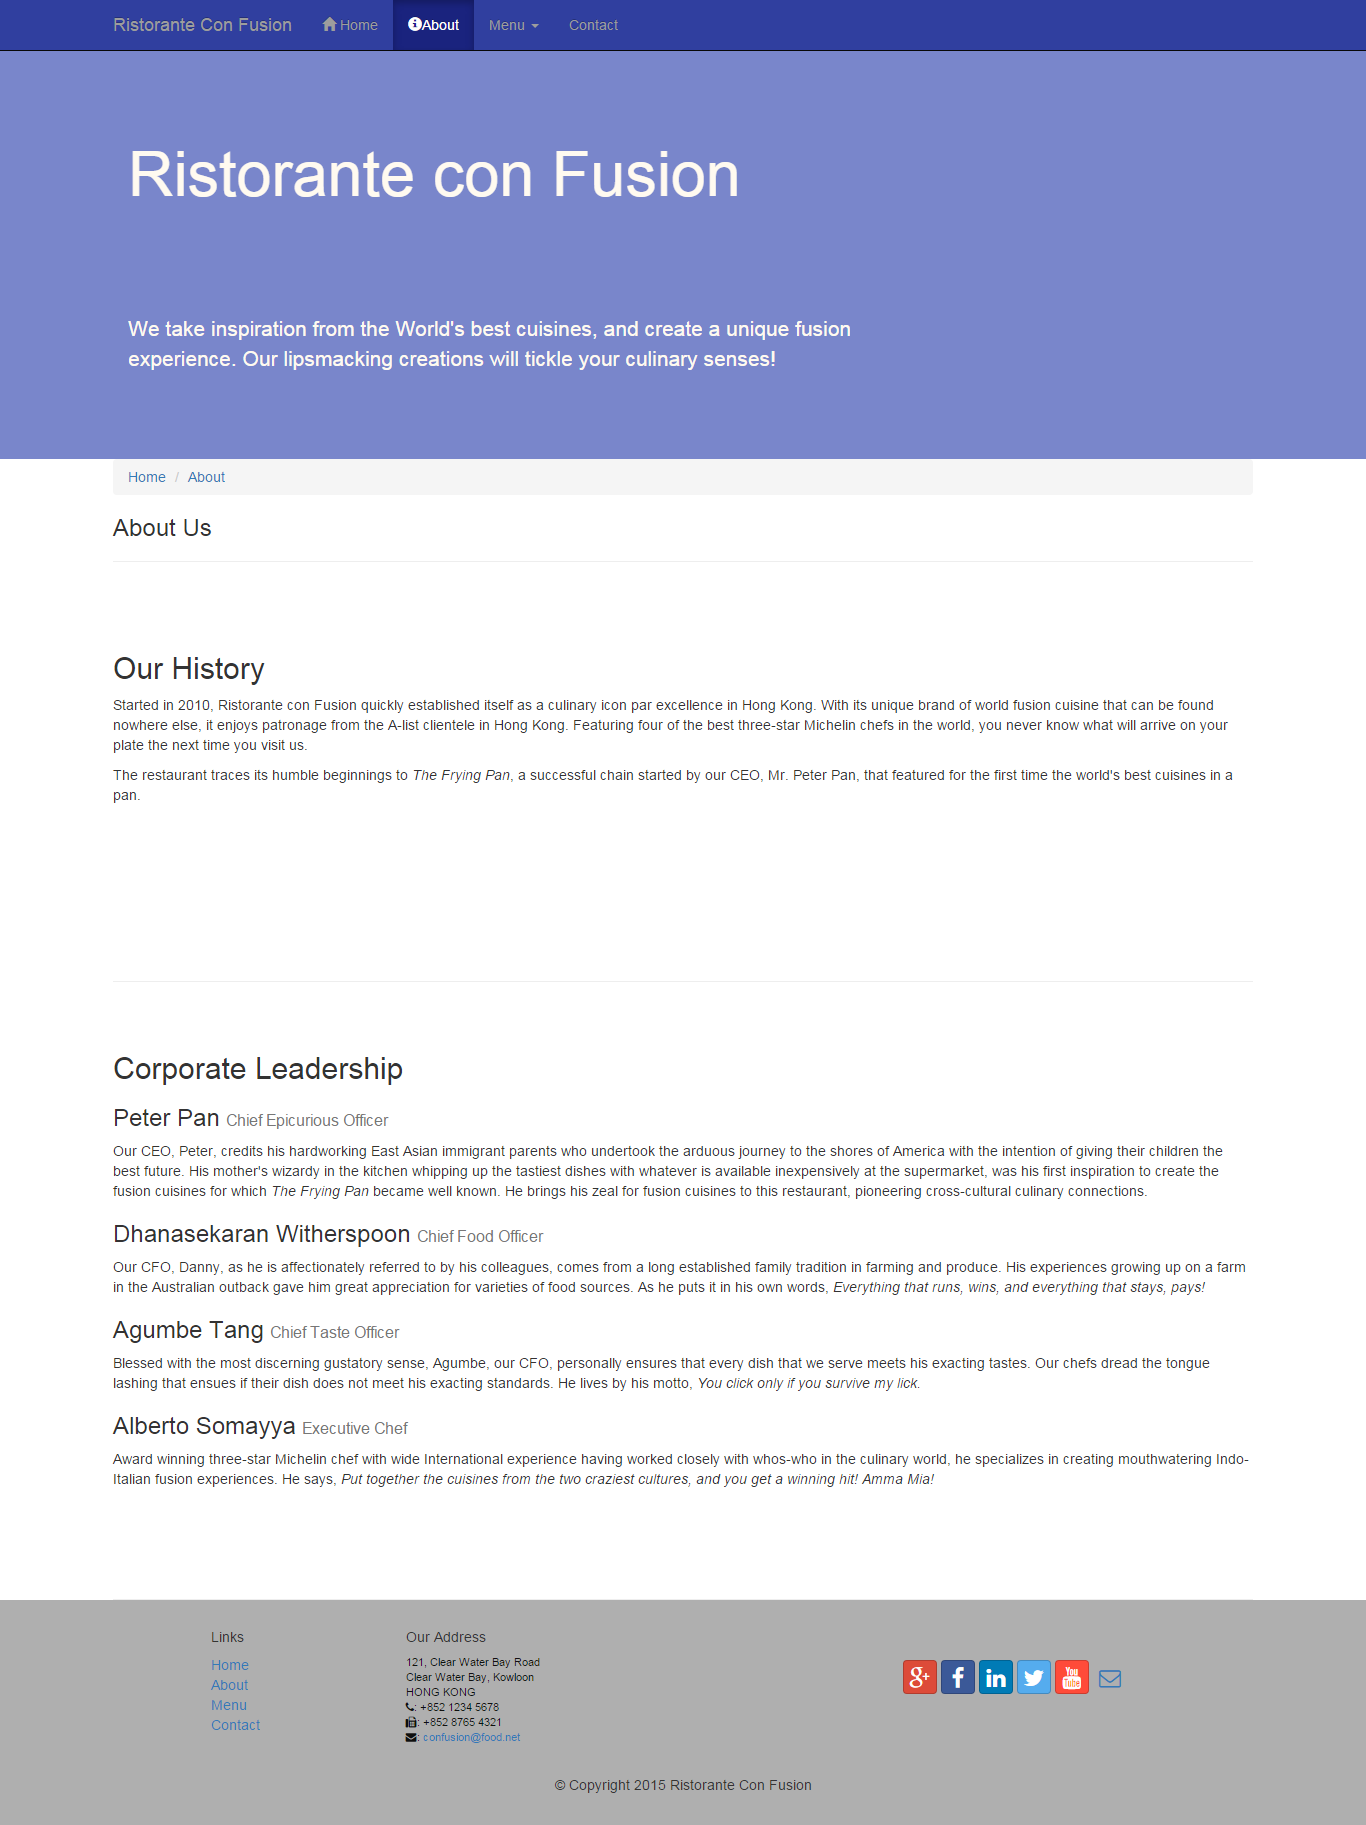
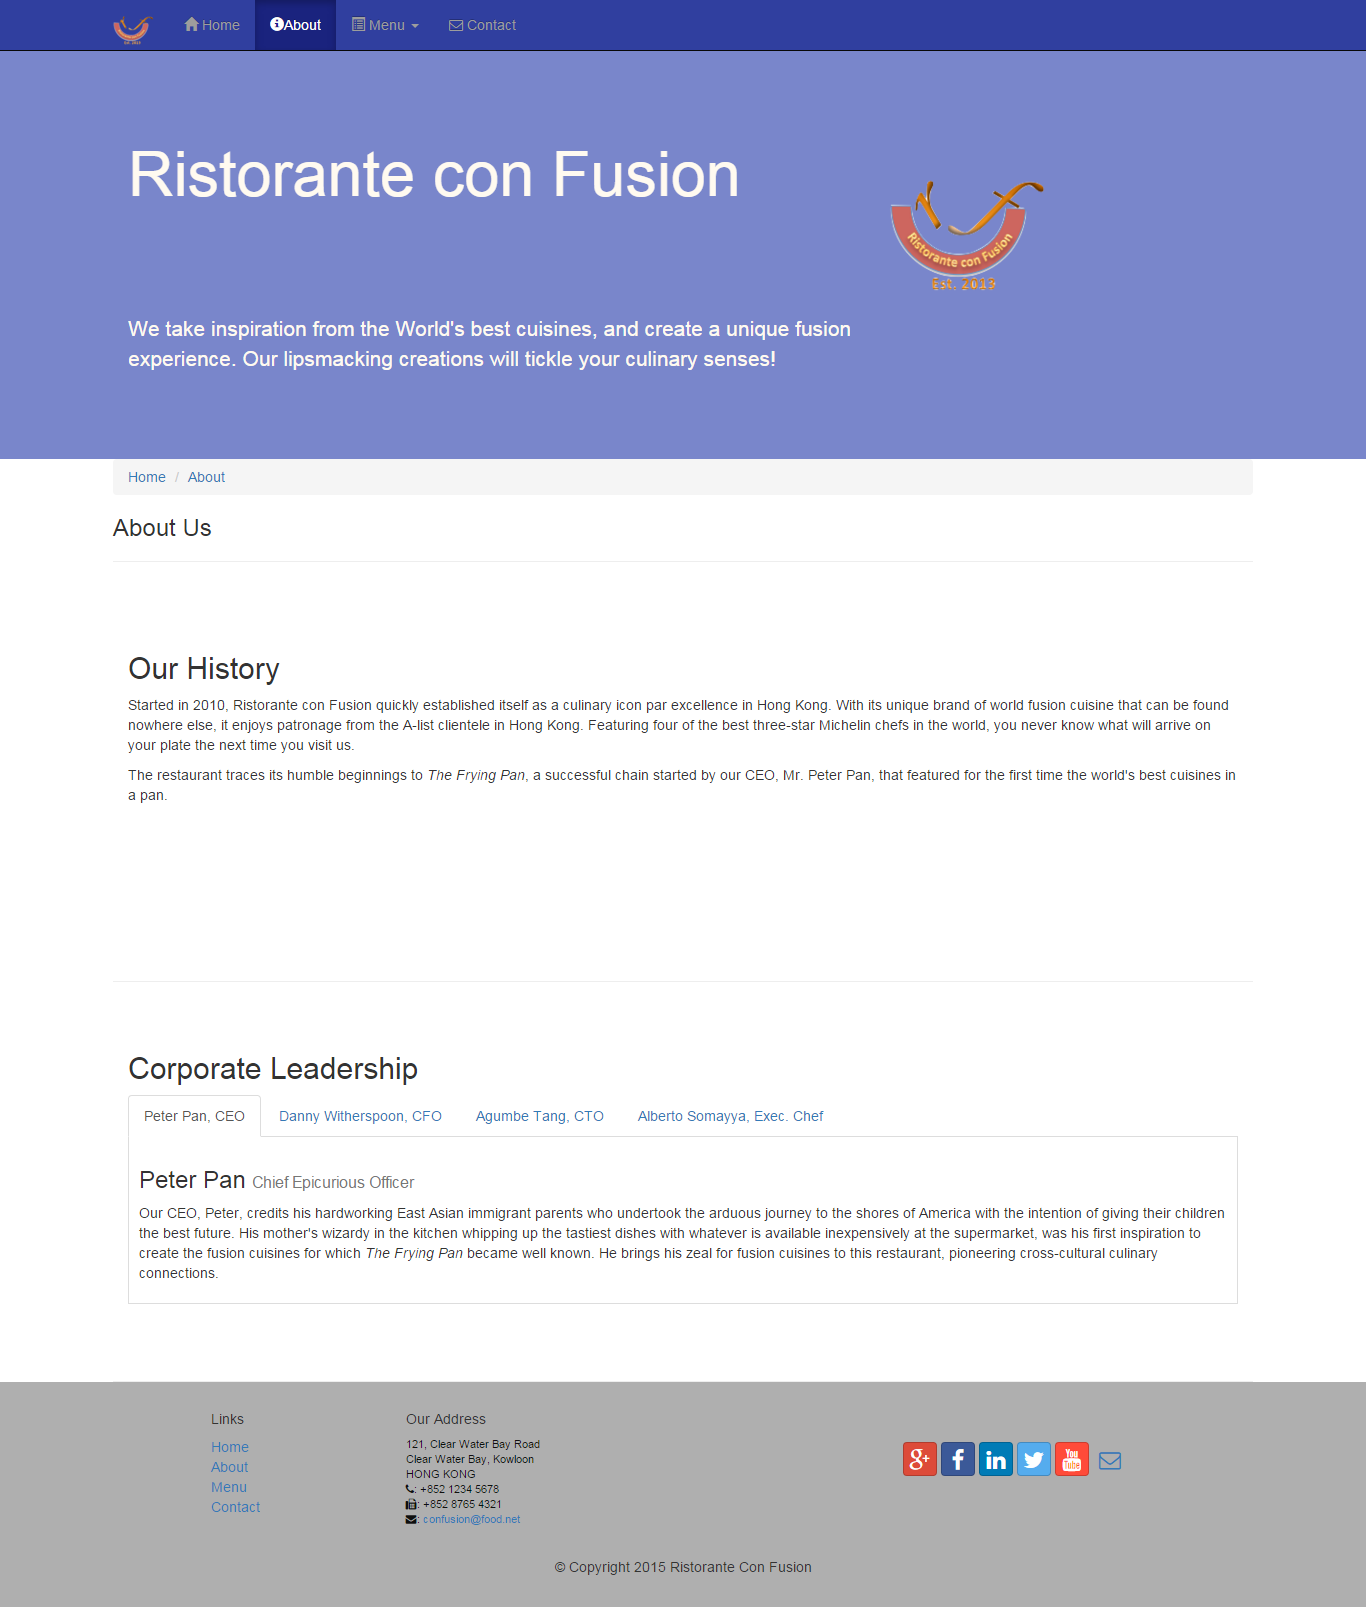
Tabs, Pills and Tabbed Navigation

diff --git a/aboutus.html b/aboutus.html
@@ -113,15 +113,49 @@
         <div class="row row-content">
             <div class="col-xs-12">
                 <h2>Corporate Leadership</h2>
-                <h3>Peter Pan <small>Chief Epicurious Officer</small></h3>
-                <p>Our CEO, Peter, credits his hardworking East Asian immigrant parents who undertook the arduous journey to the shores of America with the intention of giving their children the best future. His mother's wizardy in the kitchen whipping up the tastiest dishes with whatever is available inexpensively at the supermarket, was his first inspiration to create the fusion cuisines for which <em>The Frying Pan</em> became well known. He brings his zeal for fusion cuisines to this restaurant, pioneering cross-cultural culinary connections.</p>
-                <h3>Dhanasekaran Witherspoon <small>Chief Food Officer</small></h3>
-                <p>Our CFO, Danny, as he is affectionately referred to by his colleagues, comes from a long established family tradition in farming and produce. His experiences growing up on a farm in the Australian outback gave him great appreciation for varieties of food sources. As he puts it in his own words, <em>Everything that runs, wins, and everything that stays, pays!</em></p>
-                <h3>Agumbe Tang <small>Chief Taste Officer</small></h3>
-                <p>Blessed with the most discerning gustatory sense, Agumbe, our CFO, personally ensures that every dish that we serve meets his exacting tastes. Our chefs dread the tongue lashing that ensues if their dish does not meet his exacting standards. He lives by his motto, <em>You click only if you survive my lick.</em></p>
-                <h3>Alberto Somayya <small>Executive Chef</small></h3>
-                <p>Award winning three-star Michelin chef with wide International experience having worked closely with whos-who in the culinary world, he specializes in creating mouthwatering Indo-Italian fusion experiences. He says, <em>Put together the cuisines from the two craziest cultures, and you get a winning hit! Amma Mia!</em></p>
+                
+                
+                
+                <ul class="nav nav-tabs" role="tablist">
+                    <li role="presentation" class="active">
+                    <a href="#peter" aria-controls="peter"
+                     role="tab" data-toggle="tab">Peter Pan, CEO</a></li>
+                    <li role="presentation"><a href="#danny"
+                     aria-controls="danny" role="tab"
+                     data-toggle="tab">Danny Witherspoon, CFO</a></li>
+                    <li role="presentation"><a href="#agumbe"
+                     aria-controls="agumbe" role="tab"
+                     data-toggle="tab">Agumbe Tang, CTO</a></li>
+                    <li role="presentation"><a href="#alberto"
+                     aria-controls="alberto" role="tab"
+                     data-toggle="tab">Alberto Somayya, Exec. Chef</a></li>
+                </ul>                
+                
+                <div class="tab-content">
+                    <div role="tabpanel" class="tab-pane fade in active" id="peter">   
+                        <h3>Peter Pan <small>Chief Epicurious Officer</small></h3>
+                        <p>Our CEO, Peter, credits his hardworking East Asian immigrant parents who undertook the arduous journey to the shores of America with the intention of giving their children the best future. His mother's wizardy in the kitchen whipping up the tastiest dishes with whatever is available inexpensively at the supermarket, was his first inspiration to create the fusion cuisines for which <em>The Frying Pan</em> became well known. He brings his zeal for fusion cuisines to this restaurant, pioneering cross-cultural culinary connections.</p>
+                     </div>
+
+                    <div role="tabpanel" class="tab-pane fade" id="danny">    
+                        <h3>Dhanasekaran Witherspoon <small>Chief Food Officer</small></h3>
+                        <p>Our CFO, Danny, as he is affectionately referred to by his colleagues, comes from a long established family tradition in farming and produce. His experiences growing up on a farm in the Australian outback gave him great appreciation for varieties of food sources. As he puts it in his own words, <em>Everything that runs, wins, and everything that stays, pays!</em></p>
+                     </div>
+
+                    <div role="tabpanel" class="tab-pane fade" id="agumbe">    
+                        <h3>Agumbe Tang <small>Chief Taste Officer</small></h3>
+                        <p>Blessed with the most discerning gustatory sense, Agumbe, our CFO, personally ensures that every dish that we serve meets his exacting tastes. Our chefs dread the tongue lashing that ensues if their dish does not meet his exacting standards. He lives by his motto, <em>You click only if you survive my lick.</em></p>
+                     </div>
+
+                    <div role="tabpanel" class="tab-pane fade" id="alberto">    
+                        <h3>Alberto Somayya <small>Executive Chef</small></h3>
+                        <p>Award winning three-star Michelin chef with wide International experience having worked closely with whos-who in the culinary world, he specializes in creating mouthwatering Indo-Italian fusion experiences. He says, <em>Put together the cuisines from the two craziest cultures, and you get a winning hit! Amma Mia!</em></p>
+                    </div>    
+                     
+                </div>
+                
             </div>
+                
              <div>
                 <p style="padding:20px;"></p>
             </div>

diff --git a/css/mystyles.css b/css/mystyles.css
@@ -61,3 +61,10 @@ body{
 .navbar-inverse .navbar-nav .open .dropdown-menu> li> a:hover {
     color:#000000;
 }
+
+.tab-content {
+    border-left: 1px solid #ddd;
+    border-right: 1px solid #ddd;
+    border-bottom: 1px solid #ddd;
+    padding: 10px;
+}
